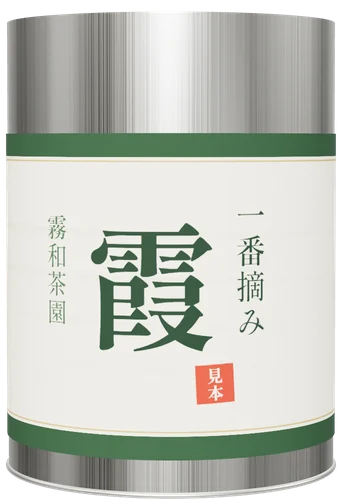
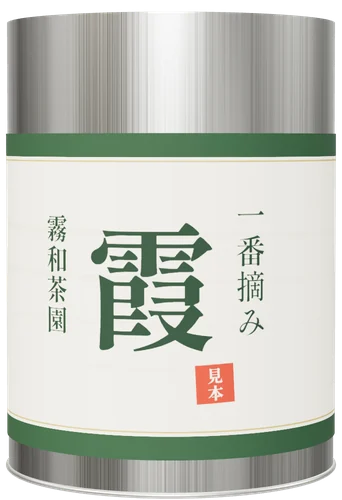
見本 試作2版目 茶LP: 2回目の採点を受けて直す（境目の霧を薄く短く・止まると透ける・入れ替えまで霧で隠す、最初の画面の霞の明るみ、茶筒の影と屋号、急須を主役に、重さの残り）

diff --git a/samples/tea/js/main-2J3HRJVE.js b/samples/tea/js/main-2J3HRJVE.js
@@ -1,0 +1,27 @@
+var k=document.documentElement,I=new URLSearchParams(location.search),B=k.classList.contains("motion"),ee=k.classList.contains("reduced"),U=["high","mid","low"].includes(I.get("q"))?I.get("q"):"high",oe=matchMedia("(pointer: coarse)").matches,q={high:{dpr:2,fog:.5,oct:5,steam:oe?220:380},mid:{dpr:1.5,fog:.4,oct:3,steam:160},low:{dpr:1,fog:.3,oct:2,steam:80}}[U],z=!I.get("q"),ne=performance.now(),Y=(t,e,u)=>Math.min(u,Math.max(e,t)),R=(t,e,u)=>{let m=Y((u-t)/(e-t),0,1);return m*m*(3-2*m)},O=()=>innerWidth>innerHeight,N=(t,e=2e3)=>window.requestIdleCallback?requestIdleCallback(t,{timeout:e}):setTimeout(t,200),_=I.get("debug")==="1"?ie():null;function ie(){let t=document.createElement("div");t.className="dbg",document.body.appendChild(t);let e=0,u=0,m=0,S=999,y=0,g=0,b=0,l=0,p=0,x=[],h=[];try{new PerformanceObserver(i=>{for(let a of i.getEntries())g++,b+=a.duration,(window.__lt=window.__lt||[]).push([Math.round(a.startTime),Math.round(a.duration)])}).observe({type:"longtask",buffered:!0})}catch{}let A=()=>{let i=0,a=0,r=performance.getEntriesByType("navigation")[0];r&&(i+=r.transferSize||0,a+=r.decodedBodySize||0);for(let d of performance.getEntriesByType("resource"))i+=d.transferSize||0,a+=d.decodedBodySize||0;return{tr:i/1024,dec:a/1024}},s=(i,a)=>{let r=i.slice().sort((d,E)=>d-E);return r[Math.floor(r.length*a)]||0},n={info:{},frame(i){y||(y=performance.now()),e++,u+=i,x.push(i),performance.now()-y>1500&&(h.push(i),i>33.4&&p++),u>=1e3&&(m=e*1e3/u,performance.now()-y>3e3&&(S=Math.min(S,m)),l=s(x,.95),e=0,u=0,x.length=0,n.draw())},draw(){let i=A(),a=n.info,r=performance.getEntriesByType("navigation")[0],d=h.length?s(h,.95):0;t.textContent=[`\u8868\u793A ${B?"\u52D5\u304F\u7248":"\u6B62\u3081\u305F\u7248"}  \u52D5\u304D\u3092\u6E1B\u3089\u3059\u8A2D\u5B9A ${ee?"\u30AA\u30F3":"\u30AA\u30D5"}`,`\u753B\u8CEA ${U}${z?"\uFF08\u81EA\u52D5\uFF09":""}  DPR ${a.dpr??"-"}  ${a.px??""}${a.auto?"  \u4E0B\u3052\u305F: "+a.auto:""}`,`FPS ${m.toFixed(0)}  \u6700\u4F4E ${S===999?"-":S.toFixed(0)}  95%\u306E1\u30B3\u30DE ${l.toFixed(1)}ms`,`\u5168\u4F53\u306E95% ${d.toFixed(1)}ms  33ms\u8D85\u3048 ${p}\u30B3\u30DE / ${h.length}`,`\u8EE2\u9001 ${(i.tr/1024).toFixed(2)}MB  \u5C55\u958B\u5F8C ${(i.dec/1024).toFixed(2)}MB`,`\u8AAD\u8FBC\u5B8C\u4E86 ${r&&r.loadEventEnd?(r.loadEventEnd/1e3).toFixed(2):"-"}s  \u6700\u521D\u306E\u7D75 ${a.fcp?(a.fcp/1e3).toFixed(2):"-"}s`,`\u6E96\u5099 ${a.init?a.init.toFixed(0):"-"}ms  \u9577\u3044\u51E6\u7406 ${g}\u56DE ${b.toFixed(0)}ms`,`${a.gpu??""}`].join(`
+`),window.__teaPerf={q:U,motion:B,reduced:ee,fps:m,minFps:S,p95:l,allP95:d,over33:p,frames:h.length,info:a,kb:i,longTasks:g,longMs:b,firstFrame:y}}};try{new PerformanceObserver(i=>{for(let a of i.getEntries())a.name==="first-contentful-paint"&&(n.info.fcp=a.startTime)}).observe({type:"paint",buffered:!0})}catch{}let c=document.createElement("p");c.className="dbg-links";for(let i of["high","mid","low"]){let a=document.createElement("a"),r=new URL(location.href);r.searchParams.set("q",i),r.searchParams.set("debug","1"),r.searchParams.delete("static"),a.href=r.pathname+r.search,a.textContent=i===U&&!z?`[${i}]`:i,c.appendChild(a)}let o=document.createElement("a");return o.href=location.pathname+(B?"?static=1&debug=1":"?motion=1&debug=1"),o.textContent=B?"\u6B62\u3081\u305F\u7248":"\u52D5\u304F\u7248",c.appendChild(o),t.after(c),B||setInterval(()=>n.draw(),1e3),n}function se(t){let e=t.textContent,u=document.createElement("span");u.className="sr",u.textContent=e,t.textContent="",t.appendChild(u);let m=0;for(let S of e){let y=document.createElement("span");y.className="ch",y.setAttribute("aria-hidden","true"),y.textContent=S,y.style.setProperty("--i",m++),t.appendChild(y)}}function re(){if(!("IntersectionObserver"in window))return;let t=document.querySelectorAll(".scene .copy, .facts-in, .buy-row, .buy-info"),e=new IntersectionObserver(u=>{for(let m of u)m.isIntersecting&&(m.target.classList.add("in"),e.unobserve(m.target))},{rootMargin:"0px 0px -10% 0px"});t.forEach(u=>{u.classList.add("fade"),e.observe(u)})}function ae(t){let e=t.getContext("webgl",{alpha:!0,premultipliedAlpha:!0,antialias:!1,depth:!1,stencil:!1,powerPreference:"high-performance"});if(!e)return null;let u=e.getExtension("KHR_parallel_shader_compile"),m=`
+    float h21(vec2 p){ return fract(sin(dot(p,vec2(127.1,311.7)))*43758.5453); }
+    float vn2(vec2 x){ vec2 i=floor(x), f=fract(x); f=f*f*(3.0-2.0*f);
+      return mix(mix(h21(i),h21(i+vec2(1,0)),f.x),mix(h21(i+vec2(0,1)),h21(i+vec2(1,1)),f.x),f.y); }
+    uniform float uOct;
+    float fbm(vec2 p){ float a=0.5, s=0.0; for(int i=0;i<5;i++){ if(float(i)>=uOct) break; s+=a*vn2(p); p=p*2.03+vec2(17.1,9.3); a*=0.5; } return s; }`,S=(f,F)=>{let T=e.createProgram();for(let[v,w]of[[e.VERTEX_SHADER,f],[e.FRAGMENT_SHADER,F]]){let P=e.createShader(v);e.shaderSource(P,w),e.compileShader(P),e.attachShader(T,P)}return e.linkProgram(T),T},y=f=>u?e.getProgramParameter(f,u.COMPLETION_STATUS_KHR):!0,g=S("attribute vec2 p; varying vec2 v; void main(){ v=p*0.5+0.5; gl_Position=vec4(p,0.0,1.0); }",`precision mediump float; varying vec2 v; uniform float uT,uA,uB,uAsp,uS; uniform vec2 uFlow; uniform vec3 uTint; ${m}
+     void main(){
+       vec2 q=vec2(v.x*uAsp,v.y);
+       vec2 fl=uFlow*uT;
+       float f=fbm(q*vec2(0.9,3.4)+vec2(fl.x*0.03,fl.y*0.05+uS*0.4));
+       float g=fbm(q*vec2(2.0,6.0)+vec2(-fl.x*0.05,fl.y*0.08+uS*0.7)+f*1.3);
+       float layer=f*0.6+g*0.5;
+       float low=smoothstep(1.05,0.15,v.y);
+       float a=smoothstep(0.34,0.78,layer)*(0.25+0.75*low)*uA;
+       float b=smoothstep(0.0,1.0,uB);
+       a=max(a, b*(0.66+0.31*smoothstep(0.3,0.72,layer)));
+       a=clamp(a,0.0,0.97);
+       gl_FragColor=vec4(uTint*a,a);
+     }`),b=S(`attribute vec4 s; uniform float uT,uH,uSz; uniform vec2 uO,uSp; varying float vA;
+     void main(){
+       float life=fract(uT*(0.06+s.y*0.07)+s.x);
+       vec2 p=uO+vec2((s.z-0.5)*uSp.x*(0.4+life)+sin(life*5.0+s.x*20.0+uT*0.3)*0.08*life, life*uSp.y);
+       vA=smoothstep(0.0,0.25,life)*smoothstep(1.0,0.45,life);
+       gl_PointSize=uSz*(0.05+life*0.14)*uH;
+       gl_Position=vec4(p,0.0,1.0);
+     }`,"precision mediump float; uniform float uV; varying float vA; void main(){ vec2 q=gl_PointCoord-0.5; float a=smoothstep(0.5,0.0,length(q)); a=a*a*vA*uV*0.26; gl_FragColor=vec4(vec3(a),a); }"),l=e.createBuffer();e.bindBuffer(e.ARRAY_BUFFER,l),e.bufferData(e.ARRAY_BUFFER,new Float32Array([-1,-1,1,-1,-1,1,1,1]),e.STATIC_DRAW);let p=new Float32Array(q.steam*4);for(let f=0;f<p.length;f++)p[f]=Math.random();let x=e.createBuffer();e.bindBuffer(e.ARRAY_BUFFER,x),e.bufferData(e.ARRAY_BUFFER,p,e.STATIC_DRAW);let h=(f,F)=>e.getUniformLocation(f,F),A=null,s=null,n=0,c=0,o=!1,i=!0,a=!0;t.addEventListener("webglcontextlost",f=>{f.preventDefault(),i=!1});let r={scale:q.fog,oct:q.oct};function d(f){let F=Math.min(window.devicePixelRatio||1,q.dpr),T=innerWidth,v=innerHeight;!f&&T===n&&Math.abs(v-c)<120&&c||(n=T,c=v,t.width=Math.max(2,Math.round(T*F*r.scale)),t.height=Math.max(2,Math.round(v*F*r.scale)),_&&(_.info.dpr=F.toFixed(2),_.info.px=`\u9727 ${t.width}x${t.height}`))}if(d(),addEventListener("resize",()=>d()),_){let f=e.getExtension("WEBGL_debug_renderer_info");_.info.gpu=f?String(e.getParameter(f.UNMASKED_RENDERER_WEBGL)).slice(0,60):""}e.enable(e.BLEND),e.blendFunc(e.ONE,e.ONE_MINUS_SRC_ALPHA);let E=function(f,F,T,v){if(!i)return;let w=F.a>.003||F.b>.003,P=v&&v.v>.003;if(!w&&!P){o||(e.clearColor(0,0,0,0),e.clear(e.COLOR_BUFFER_BIT),o=!0),a&&(t.style.visibility="hidden",a=!1);return}a||(t.style.visibility="",a=!0),o=!1,e.viewport(0,0,t.width,t.height),e.clearColor(0,0,0,0),e.clear(e.COLOR_BUFFER_BIT),w&&y(g)&&(A||(A={t:h(g,"uT"),a:h(g,"uA"),b:h(g,"uB"),asp:h(g,"uAsp"),s:h(g,"uS"),o:h(g,"uOct"),fl:h(g,"uFlow"),tint:h(g,"uTint"),p:e.getAttribLocation(g,"p")}),e.useProgram(g),e.bindBuffer(e.ARRAY_BUFFER,l),e.enableVertexAttribArray(A.p),e.vertexAttribPointer(A.p,2,e.FLOAT,!1,0,0),e.uniform1f(A.t,f),e.uniform1f(A.a,F.a),e.uniform1f(A.b,F.b),e.uniform1f(A.asp,n/c),e.uniform1f(A.s,T),e.uniform1f(A.o,r.oct),e.uniform2f(A.fl,F.fx,F.fy),e.uniform3f(A.tint,F.r,F.g,F.bl),e.drawArrays(e.TRIANGLE_STRIP,0,4),e.disableVertexAttribArray(A.p)),P&&y(b)&&(s||(s={t:h(b,"uT"),h:h(b,"uH"),sz:h(b,"uSz"),o:h(b,"uO"),sp:h(b,"uSp"),v:h(b,"uV"),s:e.getAttribLocation(b,"s")}),e.useProgram(b),e.bindBuffer(e.ARRAY_BUFFER,x),e.enableVertexAttribArray(s.s),e.vertexAttribPointer(s.s,4,e.FLOAT,!1,0,0),e.uniform1f(s.t,f),e.uniform1f(s.h,t.height),e.uniform1f(s.sz,v.size),e.uniform1f(s.v,v.v),e.uniform2f(s.o,v.x,v.y),e.uniform2f(s.sp,v.sx,v.sy),e.drawArrays(e.POINTS,0,q.steam),e.disableVertexAttribArray(s.s))};return E.lower=()=>{if(r.oct>3)r.oct=3;else if(r.scale>.34)r.scale=.34;else if(r.oct>2)r.oct=2;else if(r.scale>.25)r.scale=.25;else return!1;return d(!0),_&&(_.info.auto=`\u9727 ${r.scale}\u30FB${r.oct}`),!0},E.calm=()=>{r.oct>4&&(r.oct=4)},E}function ce(){let t=document.querySelector(".stage"),e=[...t.querySelectorAll(".layer")].map((n,c)=>({el:n,i:c,img:n.querySelector("img.kb"),video:n.querySelector("video"),kb:n.dataset.kb||"in",loaded:c===0,ready:c===0,on:null,off:null,lastTf:""})),u=n=>{if(n.loaded)return;n.loaded=!0;let o=[...n.el.querySelectorAll("img[data-l]")].filter(i=>!(i.classList.contains("can-fallback")&&!k.classList.contains("nogl"))).map(i=>(i.src=O()?i.dataset.l:i.dataset.p,i.decode?i.decode().catch(()=>{}):Promise.resolve()));n.video&&(n.video.poster=O()?n.video.dataset.posterL:n.video.dataset.posterP,n.video.src=O()?n.video.dataset.l:n.video.dataset.p,n.video.preload="auto",n.video.load()),Promise.all(o).then(()=>{n.ready=!0})};addEventListener("load",()=>setTimeout(()=>{let n=1,c=()=>{if(n>=e.length)return;let o=e[n++];o.video||u(o),N(c,1500)};N(c,1500)},1200));let m=t.querySelector(".canwrap"),S=t.querySelector(".can-lid"),y=t.querySelector(".can-shine i"),g=t.querySelector(".can-shadow"),b=e.find(n=>n.video)?.video,l=!1,p="above",x=0,h=0;function A(n){let c=0;for(let o of e)n>=o.i-.5&&(c=o.i);for(let o of e)n>o.i-1.5&&u(o);(e[c].ready||c<x)&&c!==x&&(h=x,x=c);for(let o of e){let i=o.i===x,a=o.i===h;i!==o.on&&(o.el.classList.toggle("on",i),o.on=i);let r=!i&&!a;if(r!==o.off&&(o.el.classList.toggle("off",r),o.off=r),!i)continue;let d=o.img||o.video;if(d&&o.kb!=="none"){let E=Y((n-o.i+.5)/1,0,1),f;o.kb==="out"?f=`scale(${(1.1-.06*E).toFixed(4)})`:o.kb==="pan"?f=`translate3d(${((.5-E)*4).toFixed(2)}%,0,0) scale(1.08)`:f=`translate3d(0,${((.5-E)*2).toFixed(2)}%,0) scale(${(1.04+.06*E).toFixed(4)})`,f!==o.lastTf&&(d.style.transform=f,o.lastTf=f)}}if(m&&x===e.length-1){g&&(g.style.opacity=R(4.55,5,n).toFixed(3));let o=R(4.5,5,n);m.style.transform=`translate3d(0,${((1-o)*6).toFixed(2)}%,0) rotate(${((1-o)*-3+(n-5)*1.5).toFixed(2)}deg) scale(${(.96+.04*o).toFixed(4)})`;let i=R(4.68,4.95,n);S.style.transform=`translate3d(${(i*2).toFixed(2)}%,${(-i*16).toFixed(2)}%,0) rotate(${(i*6).toFixed(2)}deg)`,y&&(y.style.transform=`translate3d(${(-60+(n-4.4)*110).toFixed(1)}%,0,0) skewX(-18deg)`)}}function s(n){if(n<3.4?p="above":n>4.65&&(p="below"),!b||b.readyState<2)return;let c=x===4;if(c&&!l){if(l=!0,p==="above"&&b.currentTime>.1)try{b.currentTime=0}catch{}p="in";let o=b.play();o&&o.catch&&o.catch(()=>{})}else!c&&l&&(l=!1,b.pause())}return{update:A,tickVideo:s,waiting:n=>{let c=0;for(let o of e)n>=o.i-.5&&(c=o.i);return c!==x}}}function le(){let t=[...document.querySelectorAll("#story > .scene")],e=t.map(l=>l.querySelector(".copy")),u=t.map(()=>!1),m=l=>{u[l]||(u[l]=!0,t[l].querySelectorAll(".split").forEach(se))};m(0);let S=1,y=()=>{S<t.length&&(m(S++),N(y,800))};setTimeout(()=>N(y,800),1500);let g=e.map(()=>!1),b=t.length-1;return l=>{for(let p=0;p<t.length;p++){l>p-1.2&&m(p);let x=g[p]?.03:0,h=p===0?-1:p-.42-x,A=p===b?99:p+.38+x,s=l>=h&&l<A;s!==g[p]&&(e[p].classList.toggle("in",s),g[p]=s)}}}var L=[],W=0;function fe(t,e,u){if(!z||!e||document.hidden||!u)return;if(W>0){W-=t;return}if(L.push(t),L.length<60)return;let m=L.slice().sort((y,g)=>y-g),S=m[Math.floor(m.length*.95)];L.length=0,S>17.5&&e.lower()&&(W=600)}function de(){let t=document.getElementById("fx"),e=null,u=()=>{if(k.classList.contains("nogl")){t.remove();return}try{e=ae(t)}catch{e=null}e?t.classList.add("on"):(k.classList.add("nogl"),t.remove())},m=ce(),S=le(),y=document.getElementById("story"),g=document.querySelector(".stage"),b=[...document.querySelectorAll("#story > .scene")],l=[],p=1e9,x=()=>{let v=innerHeight;l=b.map(w=>w.offsetTop+(w.offsetHeight-v)/2),p=y.offsetTop+y.offsetHeight};x();let h=0;addEventListener("resize",()=>{clearTimeout(h),h=setTimeout(x,150)}),document.fonts&&document.fonts.ready.then(x);let A=v=>{if(v<=l[0])return 0;for(let w=0;w<l.length-1;w++)if(v<l[w+1])return w+(v-l[w])/(l[w+1]-l[w]);return l.length-1+Y((v-l[l.length-1])/innerHeight,0,.5)},s=A(window.scrollY),n=-1,c=performance.now(),o=!1,i=c/1e3,a=!1,r=[{b:.5,fx:1,fy:0,c:[.95,.96,.94]},{b:1.5,fx:-.8,fy:.2,c:[.95,.96,.93]},{b:2.5,fx:.6,fy:.5,c:[.94,.95,.93]},{b:3.5,fx:.1,fy:1.4,c:[.97,.95,.91]},{b:4.5,fx:-.5,fy:.3,c:[.86,.89,.86]}],d={a:0,b:0,fx:1,fy:0,r:.95,g:.96,bl:.94},E=0,f=0,F=!1,T=v=>{requestAnimationFrame(T);let w=Math.min(v-c,100);c=v;let P=window.scrollY,$=A(P);Math.abs($-s)>1.2?(s=$,E=.3):s+=($-s)*(1-Math.exp(-(w/1e3)/.1)),Math.abs($-s)<5e-4&&(s=$);let C=v/1e3-i,G=P>p;if(G!==o&&(o=G,g.style.visibility=o?"hidden":"",t.isConnected&&(t.style.display=o?"none":"")),!a&&C>.05&&(a=!0,u()),!o&&(Math.abs(s-n)>4e-4||C<3)&&(m.update(s),S(s),n=s),m.tickVideo(s),e&&!o){E=Math.max(0,E-w/1e3),f=Math.abs($-s)<.002?Math.min(1,f+w/600):Math.max(0,f-w/150);let te=.55+.45*(1-R(.2,2.6,C));d.a=te*(1-R(.05,.55,s));let Q=r[0],M=0;for(let j of r){let J=(s-j.b)/.11,Z=Math.exp(-J*J);Z>M&&(M=Z,Q=j)}d.b=M*(1-.45*f),(E>0||m.waiting(s))&&(d.b=1),d.a=Math.max(d.a,.32*R(4.45,4.75,s)*(1-R(5.05,5.3,s)));let H=M>d.a?Q:r[0];d.fx=H.fx,d.fy=H.fy,[d.r,d.g,d.bl]=s>4.6&&M<d.a?[.55,.6,.55]:H.c,z&&s<.05&&C>5&&e.calm();let K=R(1.6,1.85,s)*(1-R(2.25,2.45,s)),D=R(4,4.15,s)*(1-R(4.35,4.48,s)),V=null;K>.003&&O()?V={v:K*.8,x:-.25,y:-.1,sx:.9,sy:1,size:.9}:D>.003&&(V=O()?{v:D*.9,x:-.13,y:.05,sx:.35,sy:.9,size:.7}:{v:D*.9,x:.02,y:.05,sx:.55,sy:.8,size:.6});let X=f>=1&&s<.05&&d.b<.01;F=!F,(!X||F)&&(e(C,d,s,V),fe(w*(X?.5:1),e,d.a>.003||d.b>.003))}_&&_.frame(w)};requestAnimationFrame(T),_&&(_.info.init=performance.now()-ne)}B?de():re();

diff --git a/samples/tea/style.css b/samples/tea/style.css
@@ -37,7 +37,7 @@ body {
 }
 @media (min-width: 900px) { body { font-size: clamp(1.125rem, 0.85rem + 0.4vw, 1.3rem); } }
 a, button { touch-action: manipulation; }
-h1, h2, h3 { font-family: var(--mincho); font-weight: 700; margin: 0; line-height: 1.35; word-break: auto-phrase; }
+h1, h2, h3 { font-family: var(--mincho); font-weight: 700; margin: 0; line-height: 1.35; }
 p { margin: 0 0 0.9em; }
 img, video { display: block; max-width: 100%; }
 .sr { position: absolute; width: 1px; height: 1px; overflow: hidden; clip: rect(0 0 0 0); white-space: nowrap; }
@@ -62,9 +62,10 @@ img.kb { width: 100%; height: 100%; object-fit: cover; transform: scale(1.1); }
 .canwrap { position: absolute; left: 50%; top: 8svh; height: 42svh; aspect-ratio: 684 / 1000; margin-left: calc(-42svh * 684 / 1000 / 2); transform-origin: 50% 90%; }
 .canwrap img { position: absolute; inset: 0; width: 100%; height: 100%; }
 .can-lid { transform-origin: 30% 30%; }
-.can-shadow { position: absolute; left: 4%; right: 4%; bottom: -2%; height: 8%; border-radius: 50%; background: radial-gradient(closest-side, rgba(0, 0, 0, 0.75), rgba(0, 0, 0, 0)); }
-.can-shine { position: absolute; inset: 0; overflow: hidden; -webkit-mask: url(img/can_body_s.webp) center / 100% 100% no-repeat; mask: url(img/can_body_s.webp) center / 100% 100% no-repeat; }
-.can-shine i { position: absolute; top: 0; bottom: 0; left: 0; width: 40%; background: linear-gradient(90deg, rgba(255, 255, 255, 0), rgba(255, 255, 255, 0.22), rgba(255, 255, 255, 0)); transform: translate3d(-60%, 0, 0) skewX(-18deg); }
+.can-shadow { position: absolute; left: -6%; right: -6%; bottom: -4%; height: 11%; border-radius: 50%; background: radial-gradient(closest-side, rgba(0, 0, 0, 0.85), rgba(0, 0, 0, 0)); opacity: 0; }
+.canwrap::before { content: ""; position: absolute; left: -30%; right: -30%; top: -12%; bottom: 8%; background: radial-gradient(closest-side, rgba(150, 168, 140, 0.32), rgba(150, 168, 140, 0)); }
+.can-shine { position: absolute; left: 4%; right: 4%; top: 21%; bottom: 4%; overflow: hidden; border-radius: 3% / 2%; }
+.can-shine i { position: absolute; top: 0; bottom: 0; left: 0; width: 40%; will-change: transform; background: linear-gradient(90deg, rgba(255, 255, 255, 0), rgba(255, 255, 255, 0.22), rgba(255, 255, 255, 0)); transform: translate3d(-60%, 0, 0) skewX(-18deg); }
 @media (min-aspect-ratio: 1/1) { .canwrap { left: auto; right: 13vw; top: 16svh; height: 68svh; margin-left: 0; } }
 .motion #fx { display: block; position: fixed; left: 0; top: 0; width: 100%; height: 100%; height: 100lvh; z-index: 1; pointer-events: none; opacity: 0; transition: opacity 0.6s var(--ease-out); }
 .motion #fx.on { opacity: 1; }
@@ -103,15 +104,15 @@ main { position: relative; z-index: 2; }
 /* 文字の出入り（動く版）：場面に入ると、見出しは一字ずつ、本文は少し遅れて */
 .motion .copy { opacity: 0; visibility: hidden; transition: opacity 0.35s ease-out, visibility 0s linear 0.35s; }
 .motion .copy.in { opacity: 1; visibility: visible; transition: opacity 0.45s ease-out, visibility 0s; }
-.motion .copy .ch { opacity: 0; transform: translate3d(0, 0.45em, 0); transition: opacity 0.4s ease-out, transform 0.55s var(--ease-out); }
+.motion .copy .ch { opacity: 0; transform: translateY(0.45em); transition: opacity 0.4s ease-out, transform 0.55s var(--ease-out); }
 .motion .copy.in .ch { opacity: 1; transform: none; transition-delay: calc(var(--i) * 32ms); }
-.motion .copy .rise { opacity: 0; transform: translate3d(0, 12px, 0); transition: opacity 0.4s ease-out, transform 0.55s var(--ease-out); }
+.motion .copy .rise { opacity: 0; transform: translateY(12px); transition: opacity 0.4s ease-out, transform 0.55s var(--ease-out); }
 .motion .copy.in .rise { opacity: 1; transform: none; transition-delay: 0.22s; }
 .motion .copy.in .rise + .rise { transition-delay: 0.3s; }
 .motion .copy.in .rise + .rise + .rise { transition-delay: 0.38s; }
 /* 最初の画面は箱にせず、写真の上に霞のような明るみを敷いて直接置く */
 .hero .copy { background: transparent; padding-left: 4px; padding-right: 4px; }
-.hero .panel { background: linear-gradient(to top, rgba(244, 244, 238, 0.92) 0%, rgba(244, 244, 238, 0.78) 34%, rgba(244, 244, 238, 0) 62%); }
+.hero .copy::before { content: ""; position: absolute; z-index: -1; left: -30vw; right: -30vw; top: -30svh; bottom: -16svh; pointer-events: none; background: radial-gradient(ellipse 60% 55% at 50% 62%, rgba(244, 244, 238, 0.9) 0%, rgba(244, 244, 238, 0.72) 45%, rgba(244, 244, 238, 0) 100%); }
 
 .eyebrow { font-size: 0.88rem; letter-spacing: 0.12em; color: var(--ink-soft); margin-bottom: 0.7em; }
 .hero h1 { font-size: clamp(3.2rem, 2.2rem + 6vw, 6rem); letter-spacing: 0.1em; line-height: 1.1; display: flex; align-items: baseline; gap: 0.25em; flex-wrap: wrap; margin-bottom: 0.25em; }
@@ -164,7 +165,7 @@ html.still .fade.in { opacity: 1; }
   .side-r .panel { justify-content: flex-end; }
   .copy { max-width: min(31rem, 35vw); padding: 30px 30px 24px; }
   .low .panel { align-items: flex-end; padding-bottom: 6svh; }
-  .hero .panel { background: linear-gradient(to right, rgba(244, 244, 238, 0.86) 0%, rgba(244, 244, 238, 0.62) 26%, rgba(244, 244, 238, 0) 46%); }
+  .hero .copy::before { left: -12vw; right: -14vw; top: -22svh; bottom: -22svh; background: radial-gradient(ellipse 50% 50% at 45% 50%, rgba(244, 244, 238, 0.9) 0%, rgba(244, 244, 238, 0.7) 50%, rgba(244, 244, 238, 0) 100%); }
   .hero .copy { max-width: min(30rem, 34vw); }
   /* 見出しは縦書きで、帯の中の右に */
   .scene:not(.hero) .copy { display: grid; grid-template-columns: minmax(0, 1fr) auto; column-gap: 1.8rem; align-items: start; }
@@ -175,6 +176,7 @@ html.still .fade.in { opacity: 1; }
 
 /* ---------- この茶について ---------- */
 .facts { position: relative; z-index: 2; background: var(--paper); padding: 56px 16px 64px; }
+
 .motion .facts::before { content: ""; position: absolute; left: 0; right: 0; bottom: 100%; height: 34svh; background: linear-gradient(to bottom, rgba(241, 239, 231, 0), var(--paper)); pointer-events: none; }
 .facts-in { max-width: 60rem; margin: 0 auto; }
 .facts h2 { font-size: clamp(1.5rem, 1.2rem + 1.6vw, 2.2rem); letter-spacing: 0.14em; }
@@ -195,7 +197,7 @@ html.still .fade.in { opacity: 1; }
 .buy-in { padding: 48px 16px 64px; }
 .buy-in > * { max-width: 52rem; margin-left: auto; margin-right: auto; }
 .buy h2 { font-size: clamp(1.6rem, 1.2rem + 2vw, 2.4rem); letter-spacing: 0.16em; margin-bottom: 0.6em; }
-.buy-voice { font-family: var(--serif); font-size: 1.2rem; letter-spacing: 0.08em; }
+.buy-voice { font-family: var(--serif); font-size: clamp(1.35rem, 1.1rem + 1.2vw, 2rem); letter-spacing: 0.08em; line-height: 1.6; margin-bottom: 1.2em; }
 .buy-voice span { display: block; font-family: var(--gothic); font-size: 0.78rem; color: var(--light-soft); margin-top: 0.3em; }
 .buy-lead { color: var(--light-soft); font-size: 0.94rem; }
 .buy-info { margin-top: 28px; font-size: 0.94rem; }

diff --git a/samples/tea/index.html b/samples/tea/index.html
@@ -14,9 +14,9 @@
 <link rel="preload" as="image" href="img/fuji_l.webp" media="(min-aspect-ratio: 1/1)" fetchpriority="high">
 <link rel="preconnect" href="https://fonts.googleapis.com">
 <link rel="preconnect" href="https://fonts.gstatic.com" crossorigin>
-<link rel="stylesheet" href="style.css?v=202610310330">
-<script src="boot.js?v=202610310330"></script>
-<script type="module" src="js/main-3HWOFSKQ.js"></script>
+<link rel="stylesheet" href="style.css?v=202610310358">
+<script src="boot.js?v=202610310358"></script>
+<script type="module" src="js/main-2J3HRJVE.js"></script>
 </head>
 <body>
 <a class="skip" href="#main">本文へ移動</a>
@@ -40,10 +40,10 @@
 <div id="story">
 
 <section class="scene hero tone-light" id="s-fog" aria-labelledby="h-hero">
-  <figure class="still"><picture><source media="(max-aspect-ratio: 1/1)" srcset="img/fuji_p.webp"><img src="img/fuji_l.webp" width="1920" height="1200" alt="富士山を望む、平らな台地の茶畑"></picture></figure>
+  <figure class="still"><picture><source media="(max-aspect-ratio: 1/1)" srcset="img/fuji_p.webp"><img src="img/fuji_l.webp" width="1920" height="1200" alt="富士山を望む茶畑"></picture></figure>
   <div class="panel">
     <div class="copy">
-      <p class="eyebrow">静岡・牧之原の台地から　一番茶の深蒸し煎茶</p>
+      <p class="eyebrow">静岡の茶園から　一番茶の深蒸し煎茶</p>
       <h1 id="h-hero"><span class="h1-sub">一番摘み</span>霞<span class="h1-ruby">かすみ</span></h1>
       <p class="hero-copy split">霧が晴れて、露が切れてから。</p>
       <p class="lead">春の朝、台地をおおう霧が晴れ、葉の露が切れるのを待って摘みます。芽のそろった畑を選び、その日のうちに深く蒸しました。</p>
@@ -76,7 +76,7 @@
   </div>
 </section>
 
-<section class="scene tone-dark low" id="s-pot" aria-labelledby="h-pot">
+<section class="scene tone-dark side-r" id="s-pot" aria-labelledby="h-pot">
   <figure class="still"><picture><source media="(max-aspect-ratio: 1/1)" srcset="img/pot_p.webp"><img src="img/pot_l.webp" width="1920" height="1200" alt="漆の盆にのせた朱色の横手の急須と、煎茶の入った湯呑み" loading="lazy" decoding="async"></picture></figure>
   <div class="panel">
     <div class="copy">
@@ -117,7 +117,7 @@
   <div class="panel">
     <div class="copy">
       <p class="num rise">五</p>
-      <h2 id="h-can" class="split">一番摘み　霞</h2>
+      <h2 id="h-can" class="split">一番摘みの霞</h2>
       <p class="rise">開けたら、茶筒のふたをしっかり閉めて。湿気とにおい移りをふせぎ、ひと月ほどで飲みきるのがおすすめです。</p>
       <dl class="spec rise">
         <div><dt>種類</dt><dd>一番茶の深蒸し煎茶</dd></div>
@@ -161,10 +161,10 @@
 </section>
 
 <section class="buy" id="buy" aria-labelledby="h-buy">
-  <figure class="buy-photo"><img src="img/rows_b.webp" srcset="img/rows_s.webp 800w, img/rows_b.webp 1600w" sizes="100vw" width="1600" height="700" alt="新芽のそろった、平らな台地の茶畑の畝" loading="lazy" decoding="async"></figure>
+  <figure class="buy-photo"><img src="img/rows_b.webp" srcset="img/rows_s.webp 800w, img/rows_m.webp 1080w, img/rows_b.webp 1600w" sizes="100vw" width="1600" height="700" alt="新芽のそろった、平らな台地の茶畑の畝" loading="lazy" decoding="async"></figure>
   <div class="buy-in">
-    <h2 id="h-buy">お求めの方法</h2>
     <p class="buy-voice">「露が切れるのを、毎朝畑で待っています。」<span>三代目の園主が、家族で四町歩の畑を守っています（架空の茶園の文の見本）</span></p>
+    <h2 id="h-buy">お求めの方法</h2>
     <p class="buy-lead">見本のページのため、実際の販売・受付はしていません。お店で使うときの並べ方の例です。</p>
     <ol class="buy-list">
       <li class="buy-row"><span class="buy-n" aria-hidden="true">壱</span><div><h3>茶園の売店で</h3><p>台地の茶園の小さな売店。試飲をしてから選べます。</p></div><span class="btn is-off" aria-disabled="true">場所と営業日（見本）</span></li>
@@ -184,7 +184,7 @@
 
 <footer class="foot">
   <p>このページは、ラクワーク工房が作ったホームページの見本です。霧和茶園・一番摘み「霞」は架空のもので、実在の茶園・商品とは関係ありません。表示の値も見本です。</p>
-  <p class="foot-sub">試作（動きの重さを確かめ中）。写真は Unsplash、注ぐ場面の動画は Pexels のもの（どちらも使用の許可の範囲で利用。写っているのは霧和茶園ではありません）。茶筒はページの中で形から描いた3Dです。</p>
+  <p class="foot-sub">試作（動きの重さを確かめ中）。写真と動画は Unsplash・Pexels のもの（どちらも使用の許可の範囲で利用。写っているのは霧和茶園ではありません）。茶筒は3Dで形から作って撮った絵です。</p>
   <p class="foot-links"><a href="?debug=1">動きの重さを表示する</a><a href="?static=1">動きを止めて見る</a><a href="licenses.txt">使った道具・写真とライセンス</a></p>
   <p class="foot-sig">仕事をラクに、しっかり確かに。ラクワーク工房</p>
 </footer>
